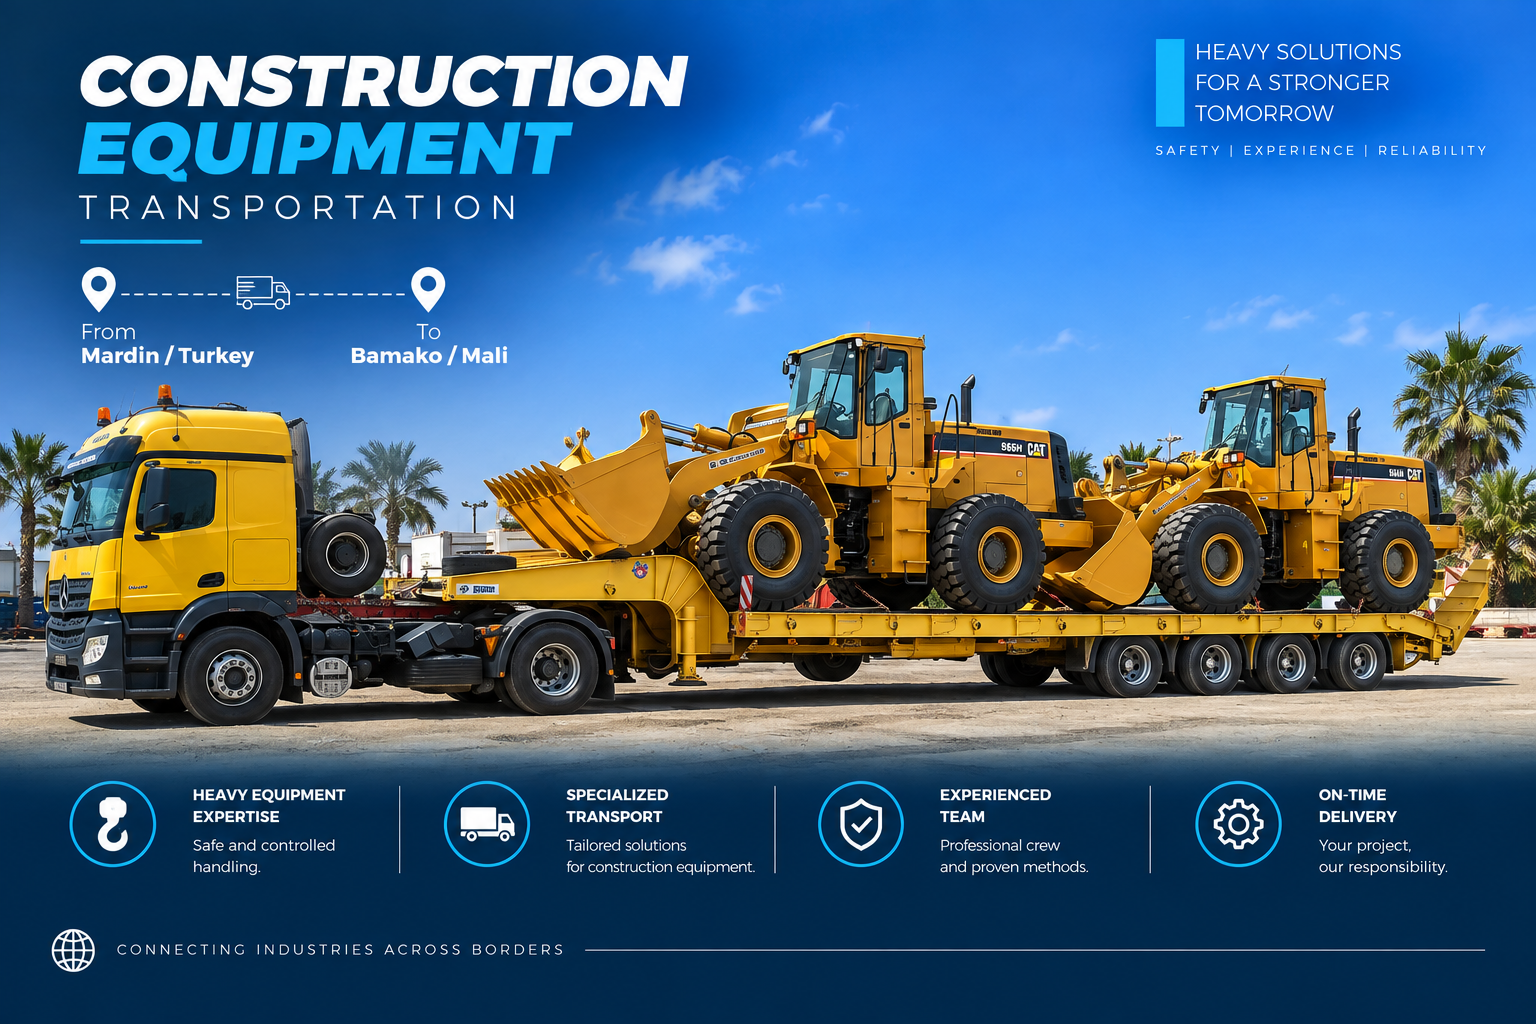
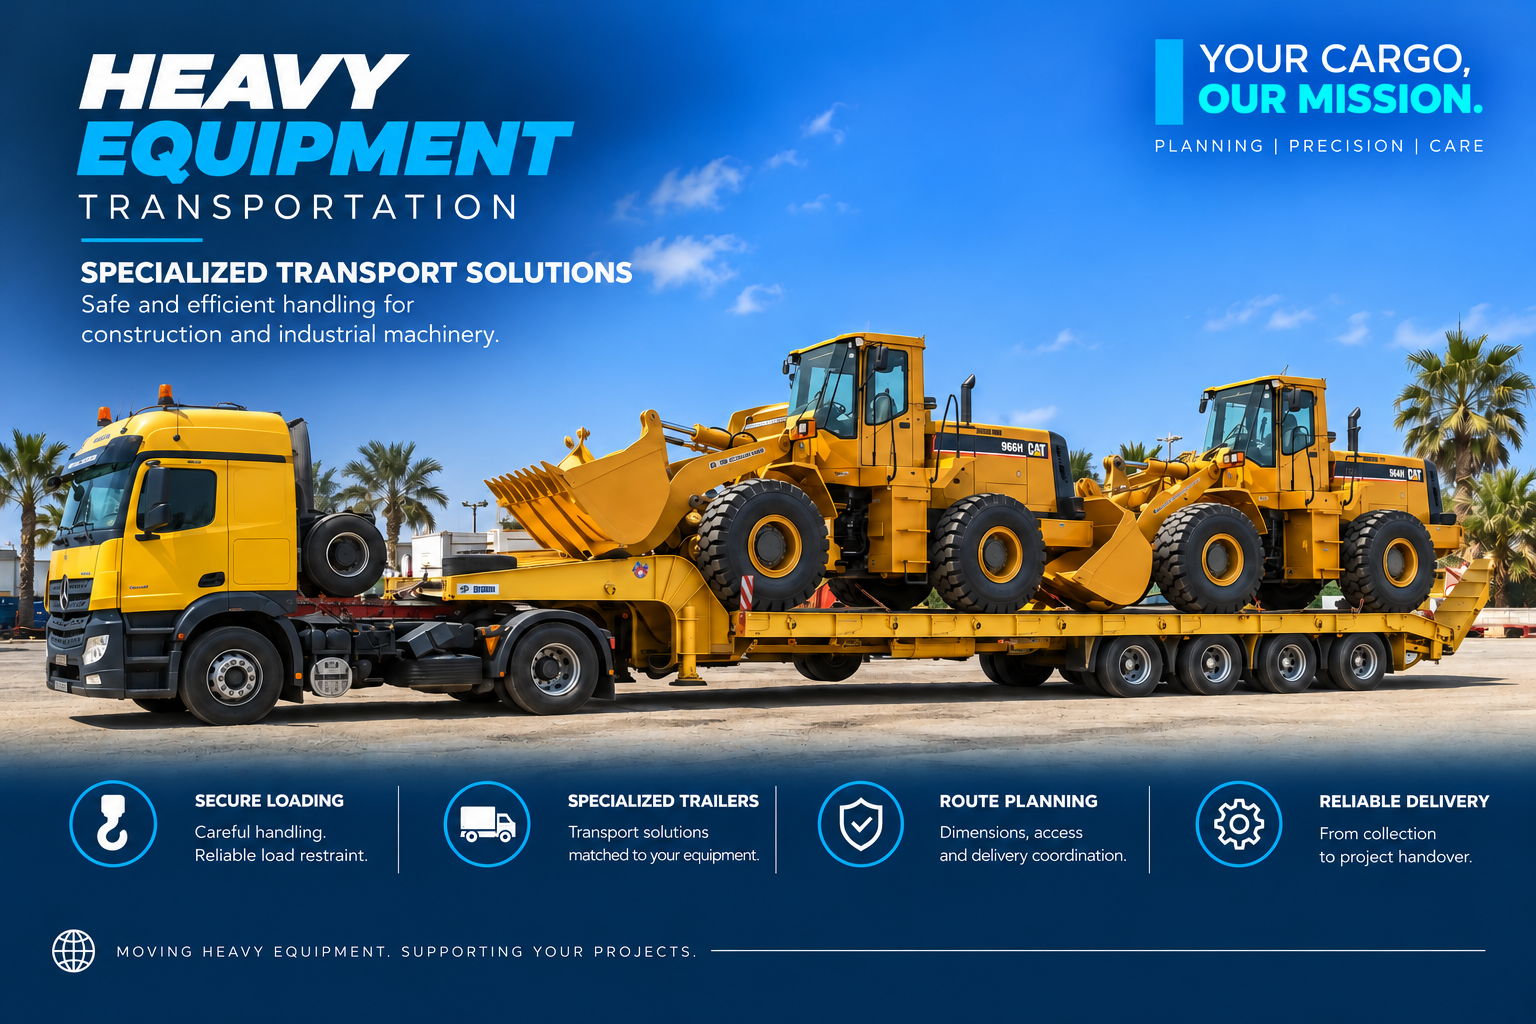
Replace incorrect Mardin–Bamako copy across all 14 heavy equipment gallery images
Use unified heavy equipment service promotion, remove route graphics and geographic signs, and refresh gallery asset cache versions.

diff --git a/services/heavy-equipment-transportation-gallery.js b/services/heavy-equipment-transportation-gallery.js
@@ -1,5 +1,5 @@
 (() => {
-  const sources=["../assets/services/heavy-equipment-transportation/gallery/01.png","../assets/services/heavy-equipment-transportation/gallery/02.png","../assets/services/heavy-equipment-transportation/gallery/03.png","../assets/services/heavy-equipment-transportation/gallery/04.png","../assets/services/heavy-equipment-transportation/gallery/05.png","../assets/services/heavy-equipment-transportation/gallery/06.png","../assets/services/heavy-equipment-transportation/gallery/07.png","../assets/services/heavy-equipment-transportation/gallery/08.png","../assets/services/heavy-equipment-transportation/gallery/09.png","../assets/services/heavy-equipment-transportation/gallery/10.png","../assets/services/heavy-equipment-transportation/gallery/11.png","../assets/services/heavy-equipment-transportation/gallery/12.png","../assets/services/heavy-equipment-transportation/gallery/13.png","../assets/services/heavy-equipment-transportation/gallery/14.png"];
+  const sources=["../assets/services/heavy-equipment-transportation/gallery/01.png?v=20260926-gallery-copy","../assets/services/heavy-equipment-transportation/gallery/02.png?v=20260926-gallery-copy","../assets/services/heavy-equipment-transportation/gallery/03.png?v=20260926-gallery-copy","../assets/services/heavy-equipment-transportation/gallery/04.png?v=20260926-gallery-copy","../assets/services/heavy-equipment-transportation/gallery/05.png?v=20260926-gallery-copy","../assets/services/heavy-equipment-transportation/gallery/06.png?v=20260926-gallery-copy","../assets/services/heavy-equipment-transportation/gallery/07.png?v=20260926-gallery-copy","../assets/services/heavy-equipment-transportation/gallery/08.png?v=20260926-gallery-copy","../assets/services/heavy-equipment-transportation/gallery/09.png?v=20260926-gallery-copy","../assets/services/heavy-equipment-transportation/gallery/10.png?v=20260926-gallery-copy","../assets/services/heavy-equipment-transportation/gallery/11.png?v=20260926-gallery-copy","../assets/services/heavy-equipment-transportation/gallery/12.png?v=20260926-gallery-copy","../assets/services/heavy-equipment-transportation/gallery/13.png?v=20260926-gallery-copy","../assets/services/heavy-equipment-transportation/gallery/14.png?v=20260926-gallery-copy"];
   const gallery=document.querySelector(".projects .gallery");
   if(!gallery) return;
   gallery.classList.add("heavy-equipment-gallery");
@@ -26,3 +26,4 @@
   lightbox.addEventListener("touchend",event=>{if(touchStartX===null)return;const endX=event.changedTouches[0]?.clientX??touchStartX;const delta=endX-touchStartX;touchStartX=null;if(Math.abs(delta)<44)return;show(delta>0?active-1:active+1)},{passive:true});
   lightbox.setAttribute("aria-hidden","true");
 })();
+

diff --git a/services/heavy-equipment-transportation.html b/services/heavy-equipment-transportation.html
@@ -1,2 +1,3 @@
-<!doctype html><html lang="en"><head><meta charset="utf-8"><meta name="viewport" content="width=device-width, initial-scale=1"><meta name="description" content="Heavy equipment transportation services by SAMA Transportations."><title>Heavy Equipment Transportation | SAMA Transportations</title><link rel="stylesheet" href="service.css"><link rel="stylesheet" href="heavy-equipment-transportation-gallery.css"><script defer src="service.js"></script><script defer src="heavy-equipment-transportation-gallery.js"></script><link rel="stylesheet" href="../contact.css"></head><body data-service="heavy-equipment-transportation"><div id="service-app"></div><footer class="contact-footer" aria-label="Contact information"><div><h2>CONTACT US</h2><p>Your Route. Our Responsibility.</p><a href="/contact.html">Contact &amp; Request a Quote →</a></div><address><strong>Mersin, Turkey</strong><a href="tel:+905057661149">+90 505 766 11 49</a></address><address><strong>Umm Qasr, Iraq</strong><a href="tel:+9647870972289">+964 787 097 22 89</a></address><address><strong>Email</strong><a href="mailto:operations@sama-transports.com">operations@sama-transports.com</a></address></footer>
+<!doctype html><html lang="en"><head><meta charset="utf-8"><meta name="viewport" content="width=device-width, initial-scale=1"><meta name="description" content="Heavy equipment transportation services by SAMA Transportations."><title>Heavy Equipment Transportation | SAMA Transportations</title><link rel="stylesheet" href="service.css"><link rel="stylesheet" href="heavy-equipment-transportation-gallery.css"><script defer src="service.js"></script><script defer src="heavy-equipment-transportation-gallery.js?v=20260926-gallery-copy"></script><link rel="stylesheet" href="../contact.css"></head><body data-service="heavy-equipment-transportation"><div id="service-app"></div><footer class="contact-footer" aria-label="Contact information"><div><h2>CONTACT US</h2><p>Your Route. Our Responsibility.</p><a href="/contact.html">Contact &amp; Request a Quote →</a></div><address><strong>Mersin, Turkey</strong><a href="tel:+905057661149">+90 505 766 11 49</a></address><address><strong>Umm Qasr, Iraq</strong><a href="tel:+9647870972289">+964 787 097 22 89</a></address><address><strong>Email</strong><a href="mailto:operations@sama-transports.com">operations@sama-transports.com</a></address></footer>
 </body></html>
+
